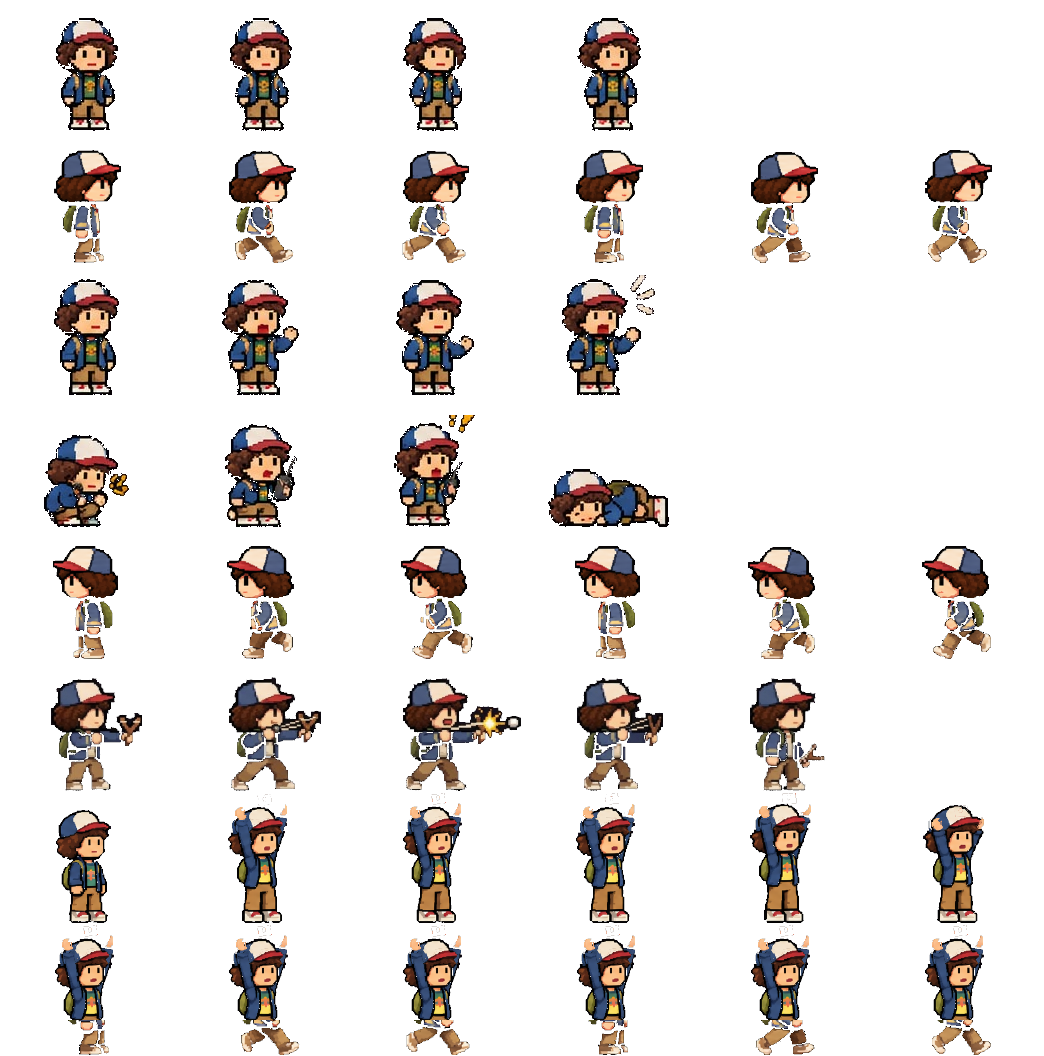
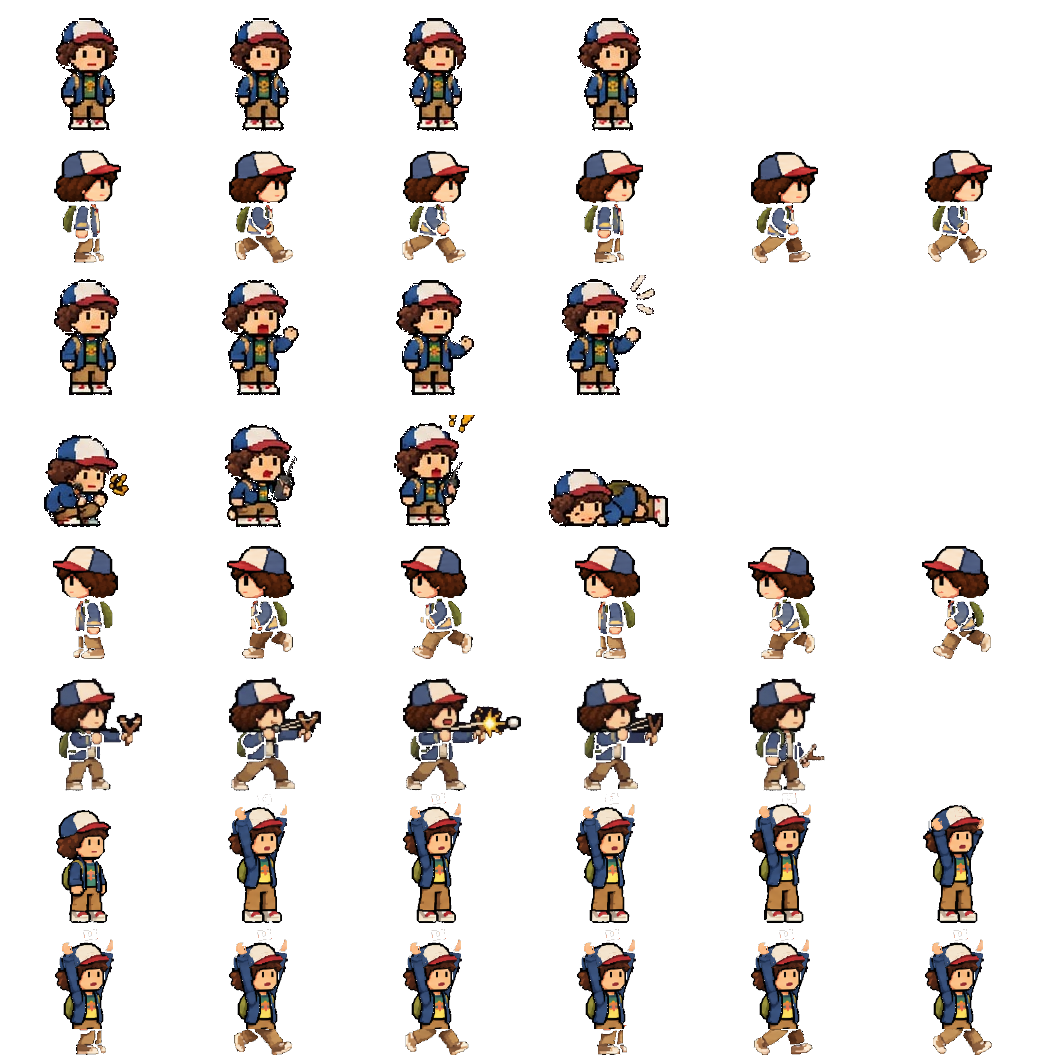
Cintura de Mike y Dustin al caminar con los brazos en alto sin costuras

diff --git a/js/atlas.js b/js/atlas.js
@@ -295,12 +295,12 @@ window.ATLAS = {
     "row": 7,
     "n": 6,
     "h": [
-     115,
-     115,
-     115,
-     115,
-     115,
-     115
+     111,
+     111,
+     111,
+     111,
+     111,
+     111
     ]
    }
   }
@@ -391,12 +391,12 @@ window.ATLAS = {
     "row": 7,
     "n": 6,
     "h": [
-     130,
-     130,
-     130,
-     130,
-     130,
-     130
+     126,
+     126,
+     126,
+     126,
+     126,
+     126
     ]
    }
   }

diff --git a/sw.js b/sw.js
@@ -1,6 +1,6 @@
 /* Service worker: deja el juego instalable y jugable sin conexión.
  * Estrategia "stale-while-revalidate": sirve de la caché y actualiza en segundo plano. */
-const CACHE = 'stranger-slug-v26';
+const CACHE = 'stranger-slug-v27';
 const ASSETS = [
   './', 'index.html', 'manifest.webmanifest',
   'js/atlas.js', 'js/game.js', 'js/touch.js',

diff --git a/tools/build_assets.py b/tools/build_assets.py
@@ -327,12 +327,19 @@ def build_char(name, sheet, bg, rows, thr=26, blank=(), solid=False, boost=1.0, 
         cu = cx(upc, range(max(0, upc.height - 4), upc.height))
         for an, i, fr, ax in [it for it in items if it[0] == 'walk']:
             low = fr.crop((0, fr.height - legH, fr.width, fr.height))
+            lp = low.load()   # quita la línea oscura del borde superior del corte (si no, se ve una raya en la cintura)
+            for yy in range(0, 2):
+                for xx in range(low.width):
+                    c = lp[xx, yy]
+                    if c[3] and 0.3 * c[0] + 0.59 * c[1] + 0.11 * c[2] < 70: lp[xx, yy] = (0, 0, 0, 0)
             cl = cx(low, range(0, 4))
             c = max(cu, cl) + 2
             ou, ol = int(round(c - cu)), int(round(c - cl))
             W = max(ou + upc.width, ol + low.width)
             img = Image.new('RGBA', (W, upc.height + low.height), (0, 0, 0, 0))
-            img.alpha_composite(low, (ol, upc.height)); img.alpha_composite(upc, (ou, 0))
+            ov = 4  # las piernas suben 4 px por debajo del torso: sin hueco en la cintura
+            img = Image.new('RGBA', (W, upc.height + low.height - ov), (0, 0, 0, 0))
+            img.alpha_composite(low, (ol, upc.height - ov)); img.alpha_composite(upc, (ou, 0))
             items.append(('liftwalk', i, img, c))
         extra_names = ['liftwalk']
         for nme in extra_names:
@@ -386,7 +393,7 @@ atlas['mike'] = build_char('mike', 'IMG-20261121-WA0027.jpg', DARK, {
     'walk':  ((1045, 305, 1510, 430), 4, 'c'),
     'talk':  ((1045, 460, 1510, 590), 4, 'c'),
     'other': ((1045, 640, 1510, 760), 4, 'c'),
-}, solid_top=0.45, fg_thr=7, liftwalk=2, override={'walk': dict(sheet='mike1.png', bg=(22, 15, 21), box=(300, 75, 1900, 277), left=(300, 340, 1900, 551), n=8, scrub=False, thr=9, cut_thr=4, local_bg=True, solid_top=0.42, pick=[0, 1, 2, 4, 5, 6]),
+}, solid_top=0.45, fg_thr=7, liftwalk=2, hip=0.27, override={'walk': dict(sheet='mike1.png', bg=(22, 15, 21), box=(300, 75, 1900, 277), left=(300, 340, 1900, 551), n=8, scrub=False, thr=9, cut_thr=4, local_bg=True, solid_top=0.42, pick=[0, 1, 2, 4, 5, 6]),
     'lift': dict(sheet='objeto2.png', bg=(19, 12, 19), box=(40, 55, 1900, 262), n=12, scrub=False, thr=9, cut_thr=5, local_bg=True, solid_top=0.45, fg_thr=7, pick=[0, 4, 5, 6, 8, 9], ref_idx=0, keep_main=True, anchor='feet',
                  edit=erase_rects((700, 55, 760, 91), (850, 50, 915, 89), (1000, 35, 1075, 90), (1512, 85, 1680, 130))),
     'shoot': dict(sheet='objeto2.png', bg=(19, 12, 19), box=(40, 375, 1900, 558), n=12, scrub=False, thr=9, cut_thr=5, local_bg=True, solid_top=0.45, fg_thr=7, pick=[3, 5, 6, 7, 4], ref_idx=0, keep_main=True, anchor='feet')})
@@ -396,7 +403,7 @@ atlas['dustin'] = build_char('dustin', 'IMG-20261121-WA0028.jpg', DARK, {
     'walk':  ((1045, 305, 1510, 430), 4, 'c'),
     'talk':  ((1045, 460, 1510, 590), 4, 'c'),
     'other': ((1045, 640, 1510, 760), 4, 'c'),
-}, liftwalk=2, hip=0.31, override={'walk': dict(sheet='dustin1.png', bg=(17, 13, 16), box=(300, 75, 1900, 277), left=(300, 340, 1900, 551), n=8, scrub=False, pick=[0, 1, 2, 4, 5, 6], solid_top=0.45, fg_thr=8),
+}, liftwalk=2, hip=0.27, override={'walk': dict(sheet='dustin1.png', bg=(17, 13, 16), box=(300, 75, 1900, 277), left=(300, 340, 1900, 551), n=8, scrub=False, pick=[0, 1, 2, 4, 5, 6], solid_top=0.45, fg_thr=8),
     'shoot': dict(sheet='tirachinas.jpg', bg=(17, 14, 21), box=(30, 85, 1250, 335), n=5, scrub=False, solid_top=0.45, fg_thr=8, pick=list(range(5)), ref_idx=0, anchor='feet'),
     'lift': dict(sheet='objeto.png', bg=(25, 17, 29), boxes=[((60, 180, 1500, 492), 8), ((60, 565, 1500, 858), 8)], scrub=False, solid_top=0.45, fg_thr=8, post=dustin_lift_post, pick=list(range(6)), ref_idx=0, anchor='feet')})
 # --- Steve (WA0029)
